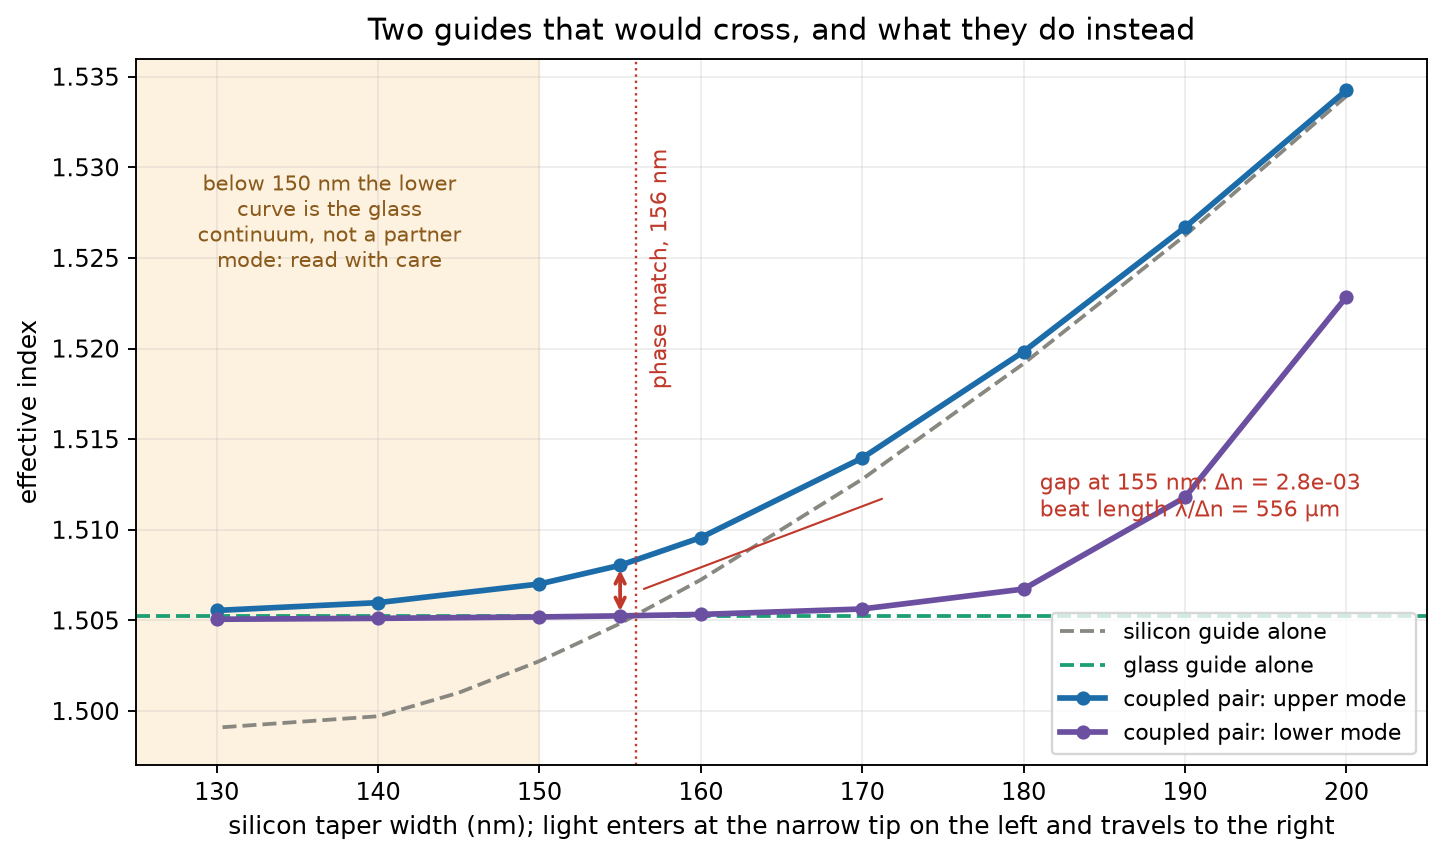
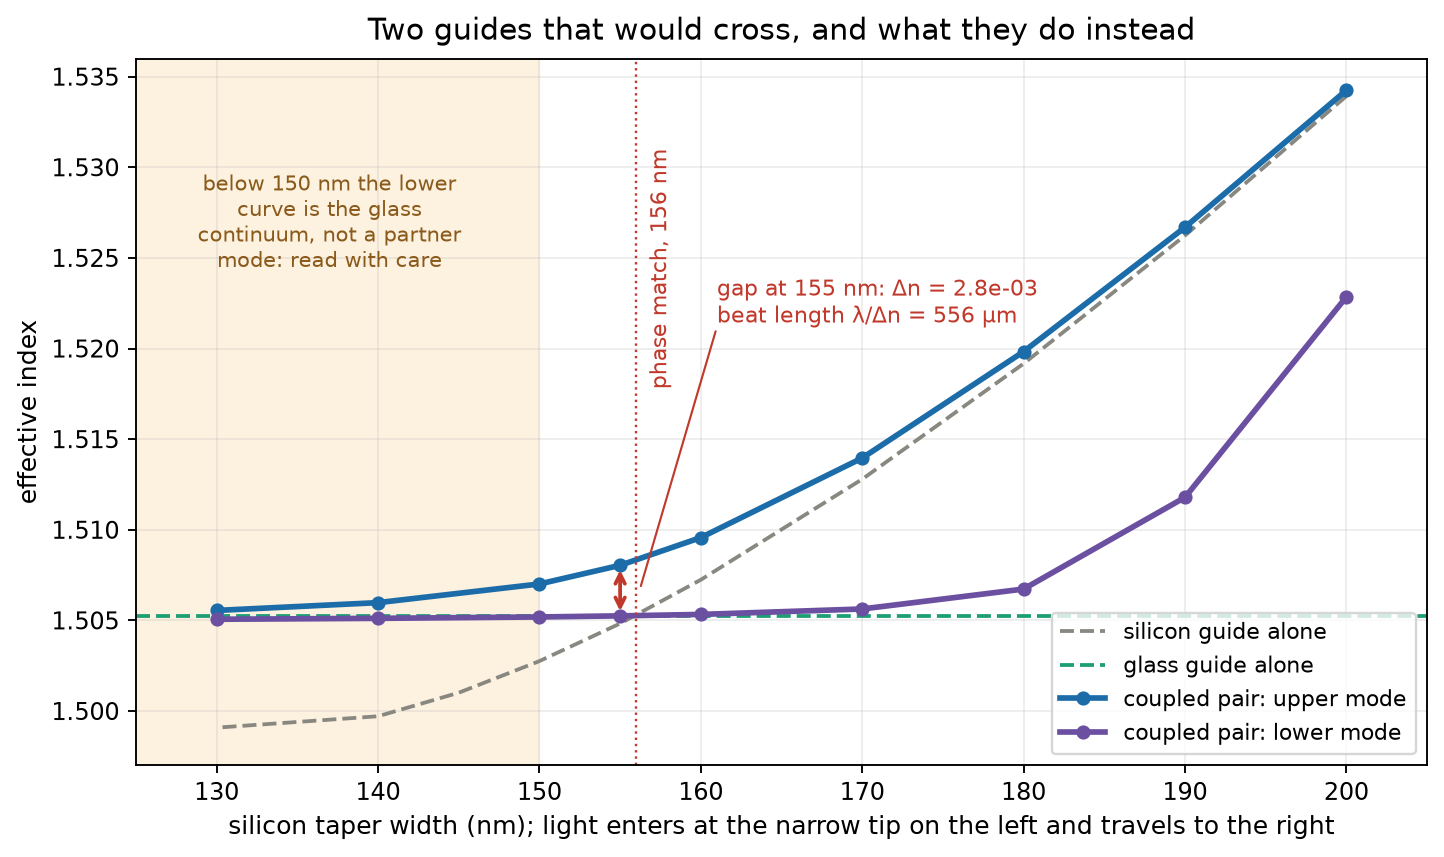
Anticrossing figure: move the gap label clear of the curves

diff --git a/chain/anticrossing.py b/chain/anticrossing.py
@@ -40,9 +40,9 @@ ax.text(137, 1.5245, "below 150 nm the lower\ncurve is the glass\ncontinuum, not
 i = np.argmin(abs(w_c - 155))
 ax.annotate("", xy=(155, upper[i]), xytext=(155, lower[i]),
             arrowprops=dict(arrowstyle="<->", color="#c0392b", lw=1.6))
-ax.text(181, 1.5118, f"gap at 155 nm: Δn = {coupled[i,2]:.1e}\nbeat length λ/Δn = {LAM/coupled[i,2]:.0f} µm",
+ax.text(161, 1.5225, f"gap at 155 nm: Δn = {coupled[i,2]:.1e}\nbeat length λ/Δn = {LAM/coupled[i,2]:.0f} µm",
         fontsize=9.5, color="#c0392b", va="center")
-ax.annotate("", xy=(156.2, (upper[i]+lower[i])/2), xytext=(171.5, 1.5118),
+ax.annotate("", xy=(156.2, (upper[i]+lower[i])/2), xytext=(161, 1.5212),
             arrowprops=dict(arrowstyle="-", color="#c0392b", lw=0.9))
 ax.axvline(156, color="#c0392b", lw=1, ls=":")
 ax.text(156.8, 1.531, "phase match, 156 nm", fontsize=9.5, color="#c0392b", rotation=90, va="top")
